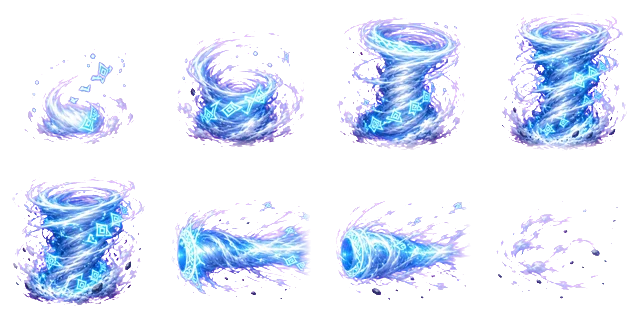
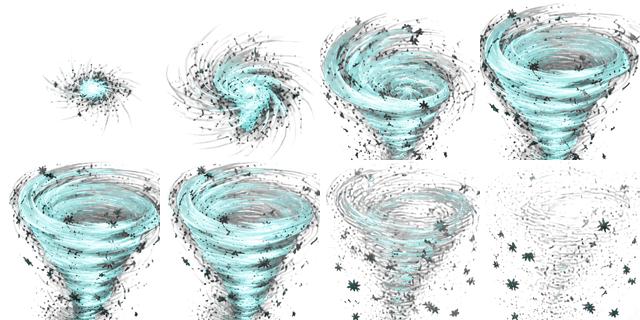
Сверить форму каждой зоны с боевым кодом; новый лист вихря
Проверка всех семи зон показала, что круг рисуется даже там, где оружие
бьёт совсем иначе:

* зерцало правды бьёт ЛУЧОМ по взгляду (проекция на направление, отсечка
  по расстоянию до оси, полуширина 30), а рисовался круг радиуса R;
* венец костей бьёт короной из 3-11 ТОНКИХ лучей полуширины 22 — между
  ними не задевает никого, заполненный круг это скрывал;
* зерно Марены рвёт кругом 1.5R и через 1.1-1.7 с после посева, а вспышка
  показывала круг R в момент посева — и меньше настоящей, и не в тот момент.

pulseZone принимает форму ({arc} — конус, {rays,halfW} — лучи), zoneStamp
строит по ней путь капсулами. Формы взяты из того же кода, что считает
попадание. Урон и охват не тронуты: у зерна enemiesNear теперь зовётся
той же величиной z._r*1.5, что и была.

Вихрь: подключён присланный лист воронки. У него нет зоны-вспышки, смерч
висит постоянно, и петля гонялась по всем восьми кадрам вместе с
затуханием — раз в цикл он распадался и собирался заново на месте.
Петля сужена до кадров 4-7.

Задания 2 и 6 переписаны под настоящие формы: первая редакция задания на
зерцало просила кольцевую волну, что для лучевого оружия неверно.

Claude-Session: https://claude.ai/code/session_01HKqKr2FyXg3awmgfb8SuGD

diff --git a/project/chernolesie/src/game/data/weapon-fx.js b/project/chernolesie/src/game/data/weapon-fx.js
@@ -82,9 +82,29 @@ function zoneStamp(x,y,R,id,a,opts){
  // сектор: полуугол меньше пи — значит зона конусная и замыкается на игроке
  const half=(o.arc>0&&o.arc<Math.PI)?o.arc:0;
  const ang=o.ang||0;
+ // лучи: зона не площадь, а один или несколько тонких отрезков от игрока.
+ // Так бьют Зерцало (один луч по взгляду) и Венец костей (корона из лучей).
+ const rays=(o.rays&&o.rays.length)?o.rays:null;
+ const hw=o.halfW||0;
  const path=function(){
   ctx.beginPath();
-  if(half){
+  if(rays){
+   // капсула: два отрезка по бокам и полукруги на концах. Ровно та фигура,
+   // по которой считается попадание, — проекция вдоль луча и отсечка по
+   // расстоянию до оси. Дуги идут ПРОТИВ часовой (последний аргумент true),
+   // иначе canvas ведёт их длинной стороной и прочерчивает хорду через фигуру.
+   const H=Math.PI/2;
+   for(const a of rays){
+    const cx=Math.cos(a),cy=Math.sin(a);
+    const nx=-cy*hw,ny=cx*hw;                 // нормаль к лучу, на полуширину
+    ctx.moveTo(nx,ny);
+    ctx.lineTo(cx*R+nx,cy*R+ny);
+    ctx.arc(cx*R,cy*R,hw,a+H,a-H,true);       // скругление на дальнем конце
+    ctx.lineTo(-nx,-ny);
+    ctx.arc(0,0,hw,a-H,a+H,true);             // скругление у ног игрока
+    ctx.closePath();
+   }
+  }else if(half){
    ctx.moveTo(0,0);
    ctx.arc(0,0,R,ang-half,ang+half);
    ctx.closePath();
@@ -131,15 +151,21 @@ function zoneStamp(x,y,R,id,a,opts){
 // его край и есть край зоны. Кольцо поверх такого листа читается как чертёж.
 const ZONE_RING={bare:1, withSheet:0};
 let zonePulses=[];
-// arc — полуугол конуса в радианах, тот же, по которому считается попадание.
-// Без него зона считается круговой, как и было у шести круглых орудий.
-function pulseZone(x,y,R,id,life,arc){
+// shape — форма зоны, та же, по которой считается попадание:
+//   не задана           — круг радиуса R (навий хвост, клюка, колокол);
+//   {arc:полуугол}      — конус по взгляду (коса);
+//   {rays:[углы],halfW} — тонкие лучи из игрока (зерцало, венец костей).
+// Форма берётся из боевого кода, а не подбирается на глаз: если нарисовано
+// не то, чем бьёт, игрок учится не верить картинке.
+function pulseZone(x,y,R,id,life,shape){
  if(!(R>0))return;
  if(zonePulses.length>24)zonePulses.shift();   // предохранитель на плотной волне
  // большая зона гаснет быстрее: чем шире кольцо, тем дольше оно мозолит глаз
  const L=life||(R>300?0.3:0.42);
+ const s=(typeof shape==='number')?{arc:shape}:(shape||null);   // старый вызов с числом
  // угол фиксируется в момент удара: лист не должен крутиться на месте
- zonePulses.push({x:x,y:y,R:R,id:id,t:L,max:L,arc:arc||0,
+ zonePulses.push({x:x,y:y,R:R,id:id,t:L,max:L,
+  arc:(s&&s.arc)||0, rays:(s&&s.rays)||null, halfW:(s&&s.halfW)||0,
   rot:(typeof P!=='undefined'&&P.fx!=null)?Math.atan2(P.fy||0,P.fx||1):0});
 }
 function drawZonePulses(dt){
@@ -159,7 +185,8 @@ function drawZonePulses(dt){
   const RR=z.R*(1+(1-k)*0.06);
   const hasSheet=!!wfxSheet(z.id);
   const ra=Math.min(1,k*1.25)*(hasSheet?ZONE_RING.withSheet:ZONE_RING.bare);
-  if(ra>0)zoneStamp(zx,zy,RR,z.id,ra,{arc:z.arc,ang:z.rot,fill:hasSheet?false:undefined});
+  if(ra>0)zoneStamp(zx,zy,RR,z.id,ra,
+   {arc:z.arc,ang:z.rot,rays:z.rays,halfW:z.halfW,fill:hasSheet?false:undefined});
   if(hasSheet)zoneSheetStamp(zx,zy,RR,z.id,k,z.rot,z.arc);
  }
 }
@@ -194,7 +221,7 @@ function drawZonePulses(dt){
 //  то, чем силуэт отделяется от фона, ради чего лист и заказывался.
 //  Поэтому у слота есть режим: tint+lighter для заглушек, как есть для заданий.
 const WFX_SHEETS={};
-// заводится после загрузки реестра: мятный серп ложится на взмах Косы
+// заводится после загрузки реестра
 addEventListener('load',()=>{
  if(typeof KOSA_ZONE_SHEET!=='undefined')WFX_SHEETS.kosa={im:KOSA_ZONE_SHEET,brief:true};
 });

diff --git a/project/chernolesie/src/game/weapons/set-c.js b/project/chernolesie/src/game/weapons/set-c.js
@@ -17,11 +17,16 @@ function doKosti(){
  const st=Math.min(maxSt,kostiStacks);
  const rays=Math.max(3,Math.round((3+Math.floor(st/3))*wAmt('kosti')));
  const R=(80+12*lvl+st*5)*wArea('kosti');
- pulseZone(P.x,P.y,R,'kosti');   // v7.33
  const list=enemiesNear(P.x,P.y,R+30);
  if(!list.length)return false;
  const dmg=(9+4*lvl)*(1+st*0.11)*wDmg('kosti');
  kostiRayA+=0.41;                                  // лучи проворачиваются каждый удар
+ // v7.35: венец бьёт короной ТОНКИХ лучей, а рисовался сплошной круг радиуса R —
+ // между лучами не задевает никого, и заполненный круг это скрывал. Рисуем ту же
+ // корону и теми же углами: pulseZone стоит после проворота, иначе картинка
+ // отставала бы от удара на один такт.
+ {const ra=[];for(let k=0;k<rays;k++)ra.push(kostiRayA+k*(TAU/rays));
+  pulseZone(P.x,P.y,R,'kosti',0,{rays:ra,halfW:22});}
  let any=false;
  for(let k=0;k<rays;k++){
   const a=kostiRayA+k*(TAU/rays);
@@ -81,9 +86,13 @@ function doZercalo(){
  const need=evo?18:30;
  if(zercaloPool<need)return false;
  const R=(190+26*lvl)*wArea('zercalo');
- pulseZone(P.x,P.y,R,'zercalo',0.6);   // v7.33
  const fx=P.fx||1,fy=P.fy||0;
  const dirs=evo?[[fx,fy],[-fx,-fy]]:[[fx,fy]];   // «Кривда» бьёт и назад
+ // v7.35: зерцало бьёт ЛУЧОМ, а рисовался полный круг радиуса R — картинка
+ // обещала удар вокруг, при попадании по узкой линии (см. проверку ниже:
+ // проекция на направление и отсечка по dist > e.r+30). Рисуем те же лучи.
+ pulseZone(P.x,P.y,R,'zercalo',0.6,
+  {rays:dirs.map(d=>Math.atan2(d[1],d[0])),halfW:30});
  const total=zercaloPool*(evo?1.5:1.0)*wDmg('zercalo');
  let hitAll=[];
  for(const d0 of dirs){

diff --git a/project/chernolesie/src/game/weapons/set-b.js b/project/chernolesie/src/game/weapons/set-b.js
@@ -235,7 +235,9 @@ function doZerno(){
  // v6.39 жест: зерно: комья земли при посеве
  {for(let _i=0;_i<6;_i++){const _a=Math.random()*TAU;spawnParticle(P.x,P.y,Math.cos(_a)*100,Math.sin(_a)*100-40,rnd(.3,.6),'#6a4a28',280,0);}}
  const R=(80+12*lvl)*wArea('zerno');
- pulseZone(P.x,P.y,R,'zerno');   // v7.33
+ // v7.35: вспышка зоны перенесена в момент ВЗРЫВА (tickSeeds). Здесь она
+ // показывала круг R в момент посева, а зерно бьёт кругом 1.5R и через
+ // 1.1-1.7 с — картинка была и меньше настоящей, и не в тот момент.
  const delay=evo?1.1:1.7;
  zones.push({x:P.x,y:P.y,r:R,t:delay,max:delay,dmg:0,_seed:true,_evo:!!evo,
   _boomDmg:(30+13*lvl)*wDmg('zerno'),_r:R});
@@ -246,7 +248,9 @@ function tickSeeds(){
  for(let i=zones.length-1;i>=0;i--){
   const z=zones[i];
   if(!z._seed||z.t>0)continue;
-  const list=enemiesNear(z.x,z.y,z._r*1.5);
+  const BR=z._r*1.5;                       // настоящий радиус взрыва
+  pulseZone(z.x,z.y,BR,'zerno');           // v7.35: вспышка там и тогда, где рвёт
+  const list=enemiesNear(z.x,z.y,BR);
   for(const e of list){
    if(e.hp<=0||e.dying>0)continue;
    const dx=e.x-z.x,dy=e.y-z.y,d=Math.hypot(dx,dy)||1;

diff --git a/project/chernolesie/src/game/weapons/fx-state.js b/project/chernolesie/src/game/weapons/fx-state.js
@@ -52,8 +52,14 @@ function drawVihrStorm(){
  ctx.globalAlpha=k*0.85;
  if(typeof VIHR_VORTEX_SHEET !== 'undefined' && VIHR_VORTEX_SHEET.complete && VIHR_VORTEX_SHEET.naturalWidth){
   ctx.globalCompositeOperation='lighter';
+  // v7.35: петля идёт по кадрам 4-7, а не по всем восьми. Лист рисует полный
+  // цикл — рождение, пик, затухание, — а смерч висит на земле постоянно:
+  // прокрутка целиком заставляла его раз в цикл распадаться и собираться
+  // заново на месте. Кадры 4-7 — устойчивая воронка, разница между ними даёт
+  // вращение, а полного распада в кадре не случается.
+  const LOOP0=3, LOOPN=4;
   const prog = (time * 3.0) % 1.0;
-  const fIdx = Math.min(7, Math.floor(prog * 8));
+  const fIdx = LOOP0 + Math.min(LOOPN - 1, Math.floor(prog * LOOPN));
   const col = fIdx % 4, row = Math.floor(fIdx / 4);
   const sw = Math.floor(VIHR_VORTEX_SHEET.naturalWidth / 4);
   const sh = Math.floor(VIHR_VORTEX_SHEET.naturalHeight / 2);

diff --git a/project/chernolesie/src/game/data/art-registry.js b/project/chernolesie/src/game/data/art-registry.js
@@ -90,6 +90,6 @@ const SLASH_SMOKE_SHEET  = (function(){const i=new Image(); i.src='@@A:art/art-r
 const IMPACT_BURST_SHEET = (function(){const i=new Image(); i.src='@@A:art/art-registry/impact-burst-sheet.webp@@'; return i;})();
 const DUST_PLUME_SHEET   = (function(){const i=new Image(); i.src='@@A:art/art-registry/dust-plume-sheet.webp@@'; return i;})();
 
-// v7.35: первый лист, нарисованный под зону оружия по заданию из docs/art-briefs.md.
-// Мятный серп во всю ячейку — взмах Косы Моры, вместо дымного серпа-заглушки.
+// v7.35: листы, нарисованные под зоны оружия по заданиям из docs/art-briefs.md.
+// Мятный клин — взмах Косы Моры.
 const KOSA_ZONE_SHEET    = (function(){const i=new Image(); i.src='@@A:art/art-registry/kosa-zone-sheet.webp@@'; return i;})();

diff --git a/project/chernolesie/src/game/weapons/set-a.js b/project/chernolesie/src/game/weapons/set-a.js
@@ -42,7 +42,7 @@ function doKosa(){
  const halfArc=(evo?1.15:0.75);
  // v7.35: зона рисуется тем же конусом, по которому идёт попадание (см. dot ниже).
  // До этого рисовался полный круг — вчетверо больше, чем коса на самом деле бьёт.
- pulseZone(P.x,P.y,R,'kosa',0,halfArc);
+ pulseZone(P.x,P.y,R,'kosa',0,{arc:halfArc});
  const fx=P.fx||1,fy=P.fy||0;
  const list=enemiesNear(P.x,P.y,R+24);
  let hitAny=false;

diff --git a/project/chernolesie/docs/art-briefs.md b/project/chernolesie/docs/art-briefs.md
@@ -22,12 +22,20 @@
 экране он окажется вдвое меньше зоны — и снова получится, что бьёт дальше,
 чем видно.
 
-**Форма эффекта — форма зоны поражения.** Шесть орудий бьют полным кругом,
-там годится кольцевая или лучевая композиция на 360°. Коса — единственная
-конусная: сектор 86° по взгляду, у эволюции 132°. Первый лист косы пришёл
-размазанным на 194–299°, почти в кольцо; игра обрезает лист по настоящему
-конусу, и от такого рисунка на экране остаётся полоска. Угол в задании
-указан не для красоты.
+**Форма эффекта — форма зоны поражения.** Она сверена с боевым кодом по
+каждому орудию, и круг оказался далеко не у всех:
+
+| орудие | чем бьёт на самом деле |
+|---|---|
+| навий хвост, клюка, колокол | круг радиуса R |
+| зерно Марены | круг 1.5R, но через 1.1–1.7 с после посева |
+| коса Моры | конус 86° по взгляду (эволюция — 132°) |
+| зерцало правды | луч длиной R, полуширина 30 px |
+| венец костей | 3–11 тонких лучей, полуширина 22 px |
+
+Первый лист косы пришёл размазанным на 194–299°, почти в кольцо; игра
+режет лист по настоящему конусу, и от такого рисунка на экране остаётся
+полоска. Форма в задании указана не для красоты.
 
 **Ровный magenta без виньетки.** Прошлый лист взмаха меча пришёл с затемнением
 по углам: в центре фон был почти чистый `#FF00FF`, а по углам вдвое темнее.
@@ -85,23 +93,43 @@
 > Стиль: игровой VFX для вида сверху, плоская подача без перспективы, без
 > текста, без рамок, без подписей, без сетки.
 
-### 2. Зерцало правды — зона 496 px
+### 2. Зерцало правды — ЛУЧ длиной 496 px, а не кольцо
 
-> Спрайт-лист 4×2, 8 кадров, фон сплошной magenta #FF00FF. Расходящаяся
-> кольцевая волна отражённого света, как круг по воде из зеркала. Волна
-> заполняет кадр целиком к 4-му кадру. Цвет: ледяное серебро #d8f0ff,
-> белое ядро, тёмно-серая обводка #2a3c48. В волне угадываются осколки
-> зеркала и слабый двойник силуэта. Кадры 1-2 — вспышка в центре, 3-5 —
-> кольцо расходится к краям, 6-8 — гаснет, осколки тают. Без текста и рамок.
+Первая редакция этого задания просила кольцевую волну — это была ошибка,
+проверенная только сейчас по боевому коду. Зерцало копит полученный урон и
+возвращает его **лучом по направлению взгляда**: попадание считается
+проекцией на направление и отсечкой по расстоянию до оси (`set-c.js`,
+`doZercalo`). Полуширина луча — 30 px при длине до 496. У эволюции «Кривда»
+второй такой же луч бьёт назад.
 
-### 3. Вихрь Стрибога — зона 423 px
+Два присланных листа с кольцевой волной под это не подходят по форме.
+Форма у них хорошая и чистая — если найдём ей место, пойдут в дело
+(ближе всего Колокол Яви, у него зона действительно круг, но он золотой,
+а листы серебряные).
 
-> Спрайт-лист 4×2, 8 кадров, фон сплошной magenta #FF00FF. Воронка ветра
-> сверху вниз, спираль из полос воздуха и сорванных листьев, закрученная
-> против часовой стрелки. Занимает весь кадр. Цвет: бледная небесная синь
-> #a8e8ff, белые скоростные линии, тёмно-синяя обводка #0e3a52. Кадры 1-3 —
-> воронка раскручивается от центра, 4-6 — полная спираль, 7-8 — рассыпается.
-> Без текста и рамок.
+> Спрайт-лист 4×2, 8 кадров, фон сплошной magenta #FF00FF. ГОРИЗОНТАЛЬНЫЙ
+> ЛУЧ отражённого света, бьющий слева направо: узкая полоса примерно в
+> восьмую часть высоты кадра, идущая от левого края к правому через середину.
+> Не кольцо, не круг, не взрыв — именно прямая полоса. Верх и низ кадра
+> пустые. Цвет: ледяное серебро #d8f0ff, раскалённое белое ядро вдоль оси
+> луча, тёмно-серая обводка #2a3c48 по краям полосы. Вдоль луча — осколки
+> зеркала и стеклянная крошка. Кадры 1-2: луч копится точкой у левого края.
+> Кадры 3-5: пробивает кадр насквозь до правого края, пик. Кадры 6-8:
+> распадается на осколки и гаснет. Плоская подача сверху, без перспективы,
+> без текста, без рамок.
+
+### 3. Вихрь Стрибога — ГОТОВО
+
+Взят присланный лист воронки, лежит как `vihr-vortex-sheet.webp`.
+
+Важное отличие от остальных: у Вихря **нет зоны-вспышки**. Он висит на земле
+постоянно (`drawVihrStorm`), поэтому лист не проигрывается один раз, а
+крутится по кругу. Прежний лист гонялся всеми восемью кадрами, включая
+затухание, и смерч раз в цикл распадался и собирался заново на месте.
+Теперь петля идёт по кадрам 4–7 — устойчивая воронка.
+
+Отсюда требование к листу постоянного эффекта: середина (кадры 4–7) должна
+быть **зацикливаемой**, то есть кадр 7 должен переходить в кадр 4 без рывка.
 
 ### 4. Навий хвост — зона 336 px
 
@@ -120,13 +148,21 @@
 > удара, тёмно-бордовая обводка #4a0e0e. Кадры 1-2 — момент удара, 3-5 —
 > трещины расходятся, 6-8 — пыль оседает. Без текста и рамок.
 
-### 6. Венец костей — зона 269 px
+### 6. Венец костей — корона из ТОНКИХ лучей, радиус 269 px
 
-> Спрайт-лист 4×2, 8 кадров, фон сплошной magenta #FF00FF. Костяные лучи,
-> расходящиеся из центра короной на 360 градусов. Заполняет кадр. Цвет:
-> тёплая кость #ffe0b0, белые кончики лучей, тёмно-коричневая обводка
-> #503418. Кадры 1-3 — лучи выстреливают наружу, 4-5 — полная корона,
-> 6-8 — рассыпаются в костяную крошку. Без текста и рамок.
+Проверено по коду: венец бьёт не площадью, а 3–11 тонкими лучами из игрока,
+полуширина 22 px, углы проворачиваются с каждым ударом. Между лучами не
+задевает никого. Поэтому в кадре должны быть именно раздельные спицы с
+пустотой между ними, а не заполненный круг.
+
+> Спрайт-лист 4×2, 8 кадров, фон сплошной magenta #FF00FF. Восемь ТОНКИХ
+> костяных лучей-спиц, расходящихся из центра кадра к краям, как спицы
+> колеса. Между лучами — пустой фон, никакого заполненного круга и никакого
+> кольца по краю. Толщина луча примерно в тридцатую часть ширины кадра.
+> Цвет: тёплая кость #ffe0b0, белые кончики, тёмно-коричневая обводка
+> #503418. Кадры 1-3 — спицы выстреливают из центра наружу, 4-5 — полная
+> корона до краёв, 6-8 — рассыпаются в костяную крошку. Плоская подача
+> сверху, без текста и рамок.
 
 ### 7. Зерно Марены — зона 224 px
 
